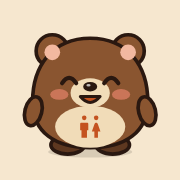
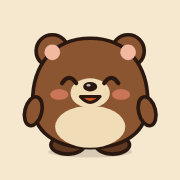
くまトイのお腹のトイレマークを削除し、アイコンを作り直す

Changed region(s): [[0.4444, 0.6389, 0.5556, 0.7778]]

diff --git a/js/bear.js b/js/bear.js
@@ -26,7 +26,6 @@ function bearSvg(size,mood){
 </g>
 <circle cx="23" cy="23" r="5.6" fill="#f2b8a0"/><circle cx="77" cy="23" r="5.6" fill="#f2b8a0"/>
 <ellipse cx="50" cy="76" rx="25" ry="15" fill="${CREAM}"/>
-<g transform="translate(50 76) scale(.85) translate(-12 -12)" fill="#c4521f">${WC_PATHS}</g>
 <ellipse cx="28" cy="53" rx="6.5" ry="3.8" fill="#ff8f7a" opacity=".55"/><ellipse cx="72" cy="53" rx="6.5" ry="3.8" fill="#ff8f7a" opacity=".55"/>
 <ellipse cx="50" cy="52" rx="14" ry="10.5" fill="${CREAM}"/>
 <ellipse cx="50" cy="47.5" rx="5" ry="3.4" fill="${INK}"/><ellipse cx="48.8" cy="46.4" rx="1.5" ry=".9" fill="#fff" opacity=".7"/>
